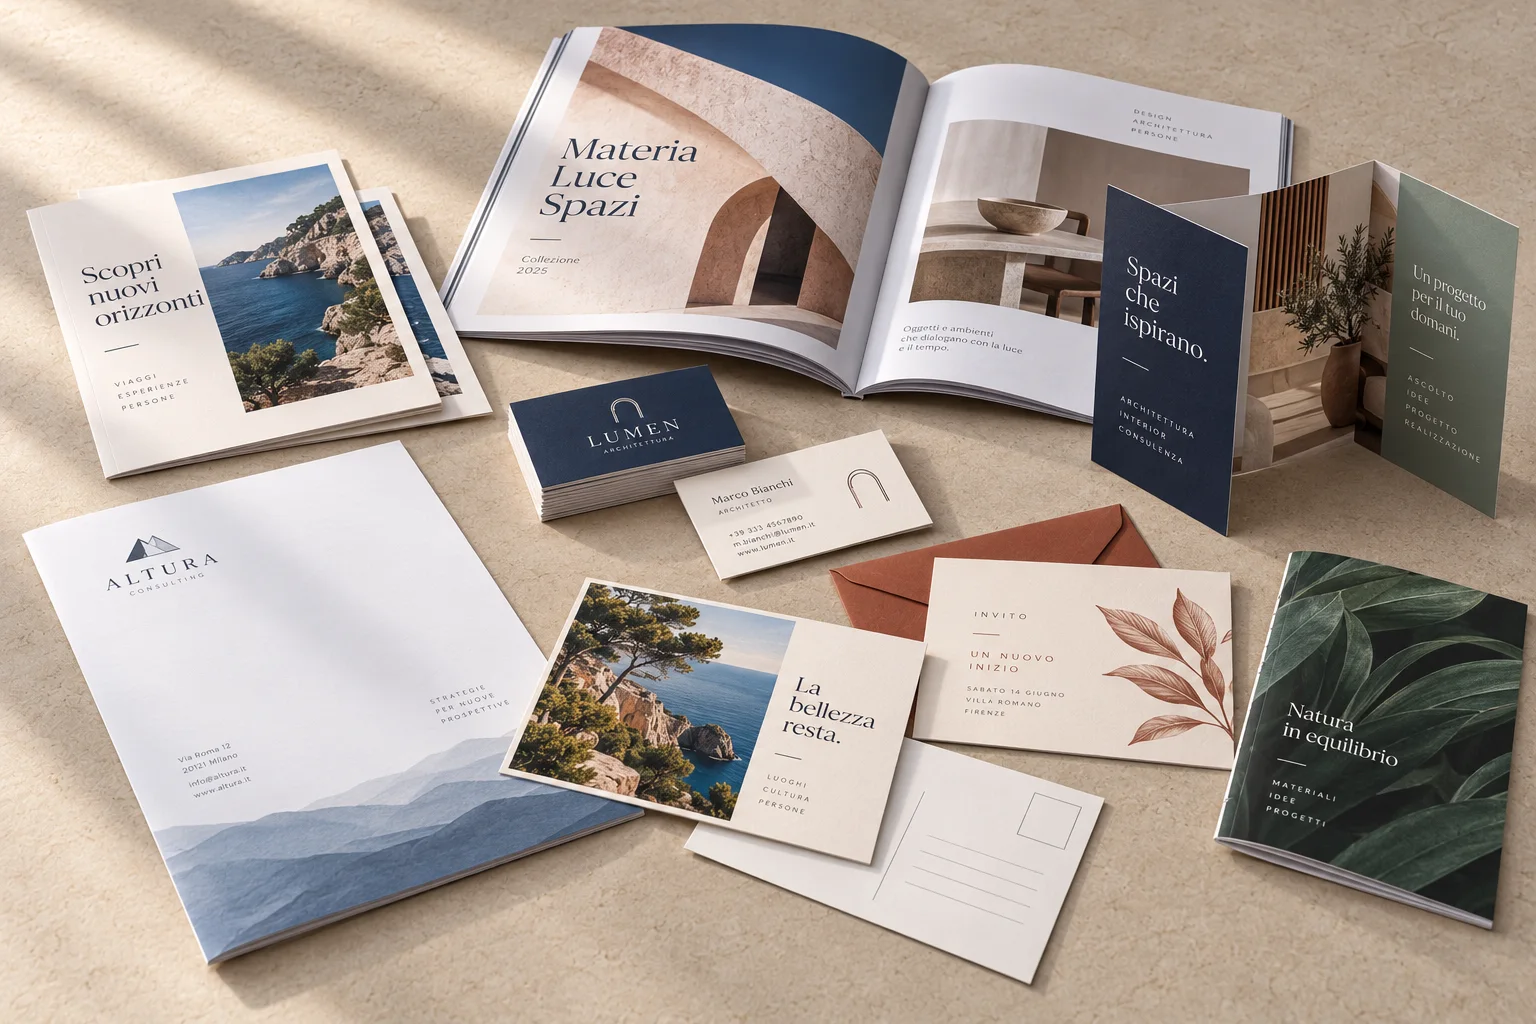
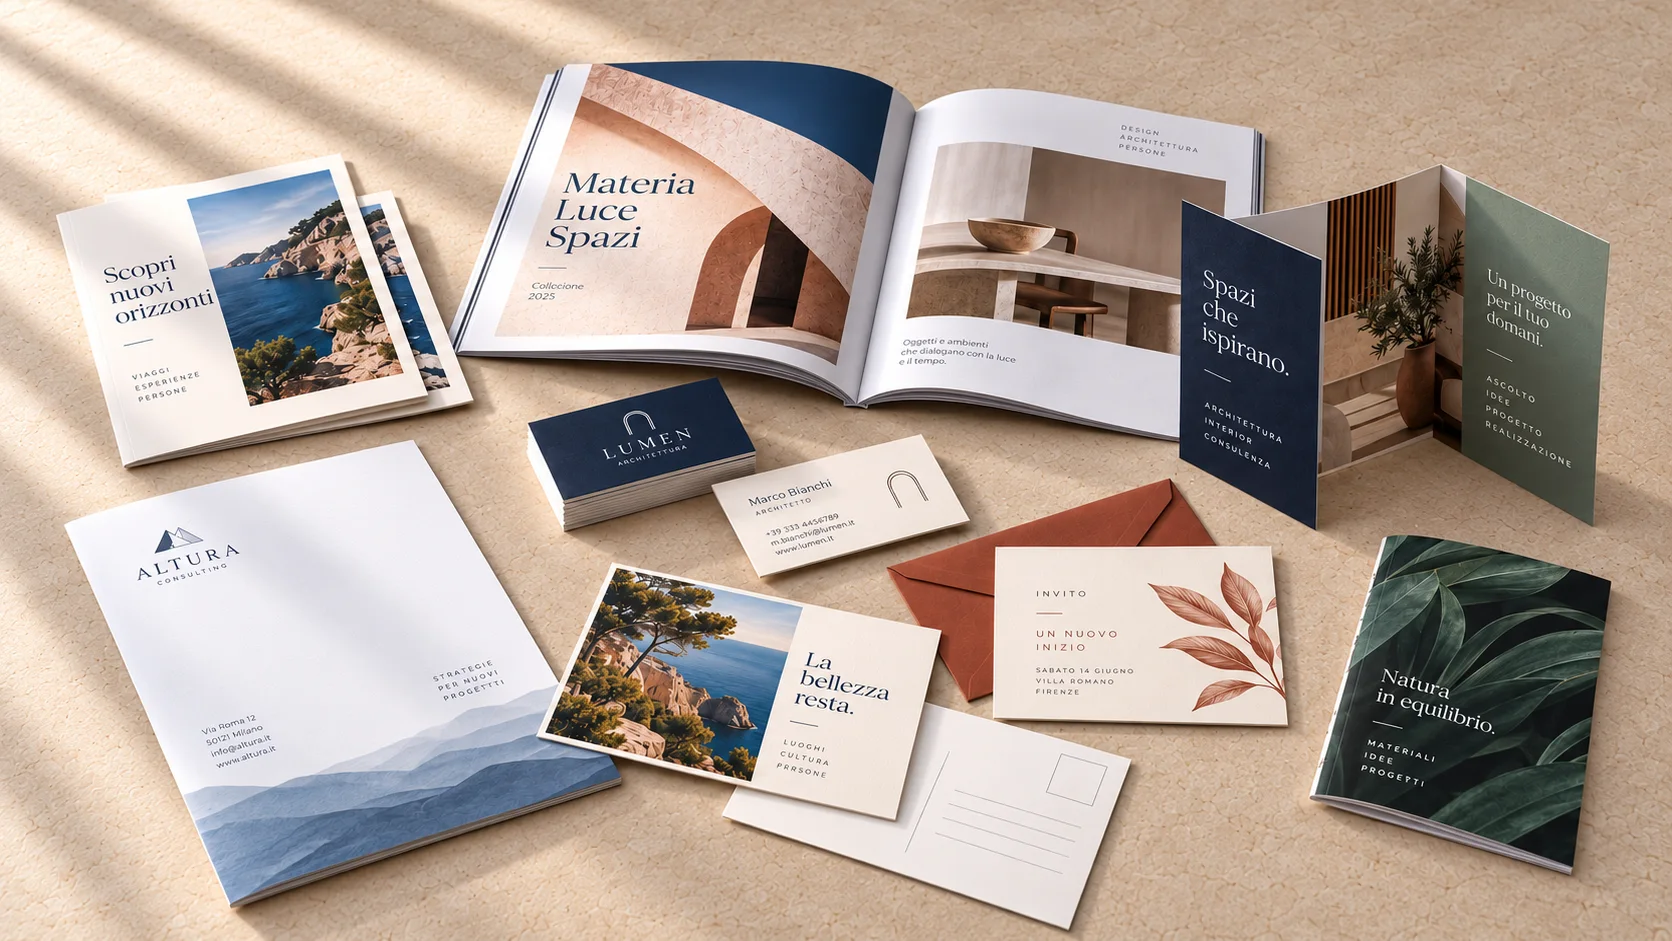
Produzione: immagine Piccolo formato sotto il box testo
Claude-Session: https://claude.ai/code/session_01GPtTgz3X4Rj7yyp6aB7ZXu

diff --git a/src/ambiti.css b/src/ambiti.css
@@ -42,8 +42,14 @@
 @media(max-width:560px){.tb-gallery{grid-template-columns:1fr}}
 .tb-seo{position:absolute;width:1px;height:1px;margin:-1px;padding:0;overflow:hidden;clip:rect(0 0 0 0);white-space:nowrap;border:0}
 .am-media--one{grid-template-columns:1fr}
-/* Immagine unica: stessa altezza del box testo accanto */
-.am-item:has(.am-media--one){align-items:stretch}
-.am-media--one{position:relative}
-.am-one{display:block;width:100%;height:100%;object-fit:cover;object-position:center}
-@media(max-width:900px){.am-one{height:auto;aspect-ratio:3/2}}
+/* Immagine unica: occupa tutta la riga e passa SOTTO il box testo a sinistra (continuità visiva) */
+.am-item:has(.am-media--one){grid-template-columns:minmax(0,5fr) minmax(0,7fr);align-items:center}
+.am-item:has(.am-media--one)>.am-media--one{grid-column:1/-1;grid-row:1;position:relative}
+.am-item:has(.am-media--one)>.am-copy{grid-column:1;grid-row:1;position:relative;z-index:2;margin:clamp(18px,2.6vw,44px) 0 clamp(18px,2.6vw,44px) clamp(18px,2.6vw,44px)}
+.am-one{display:block;width:100%;height:auto;aspect-ratio:16/9;object-fit:cover}
+@media(max-width:900px){
+  .am-item:has(.am-media--one){grid-template-columns:minmax(0,1fr)}
+  .am-item:has(.am-media--one)>.am-media--one{grid-row:2;grid-column:1}
+  .am-item:has(.am-media--one)>.am-copy{grid-row:1;margin:0}
+  .am-one{aspect-ratio:3/2}
+}

diff --git a/wiki/log.md b/wiki/log.md
@@ -756,3 +756,4 @@ Ordine cronologico, più recente in fondo.
 - Tabloid è ora una sotto-categoria dentro Piccolo formato (`#tabloid` in `produzione.html`): solo titolo + 4 immagini (`assets/tabloid-1..4.webp`), non cliccabili. Testo con parole chiave presente ma nascosto visivamente (`.tb-seo`, sr-only). Nessun link nel menu `.am-jump`.
 - Piccolo formato: i 2 segnaposto sostituiti da un'unica immagine grande (`assets/piccolo-formato.webp`, mockup stampati generici).
 - Piccolo formato: l'immagine segue sempre l'altezza del box testo accanto (align stretch + object-fit cover); sotto i 900 px torna 3:2.
+- Piccolo formato: nuova immagine 16:9 a tutta larghezza che passa sotto il box testo (sovrapposizione a sinistra, continuità visiva); sotto i 900 px box sopra e immagine sotto.
